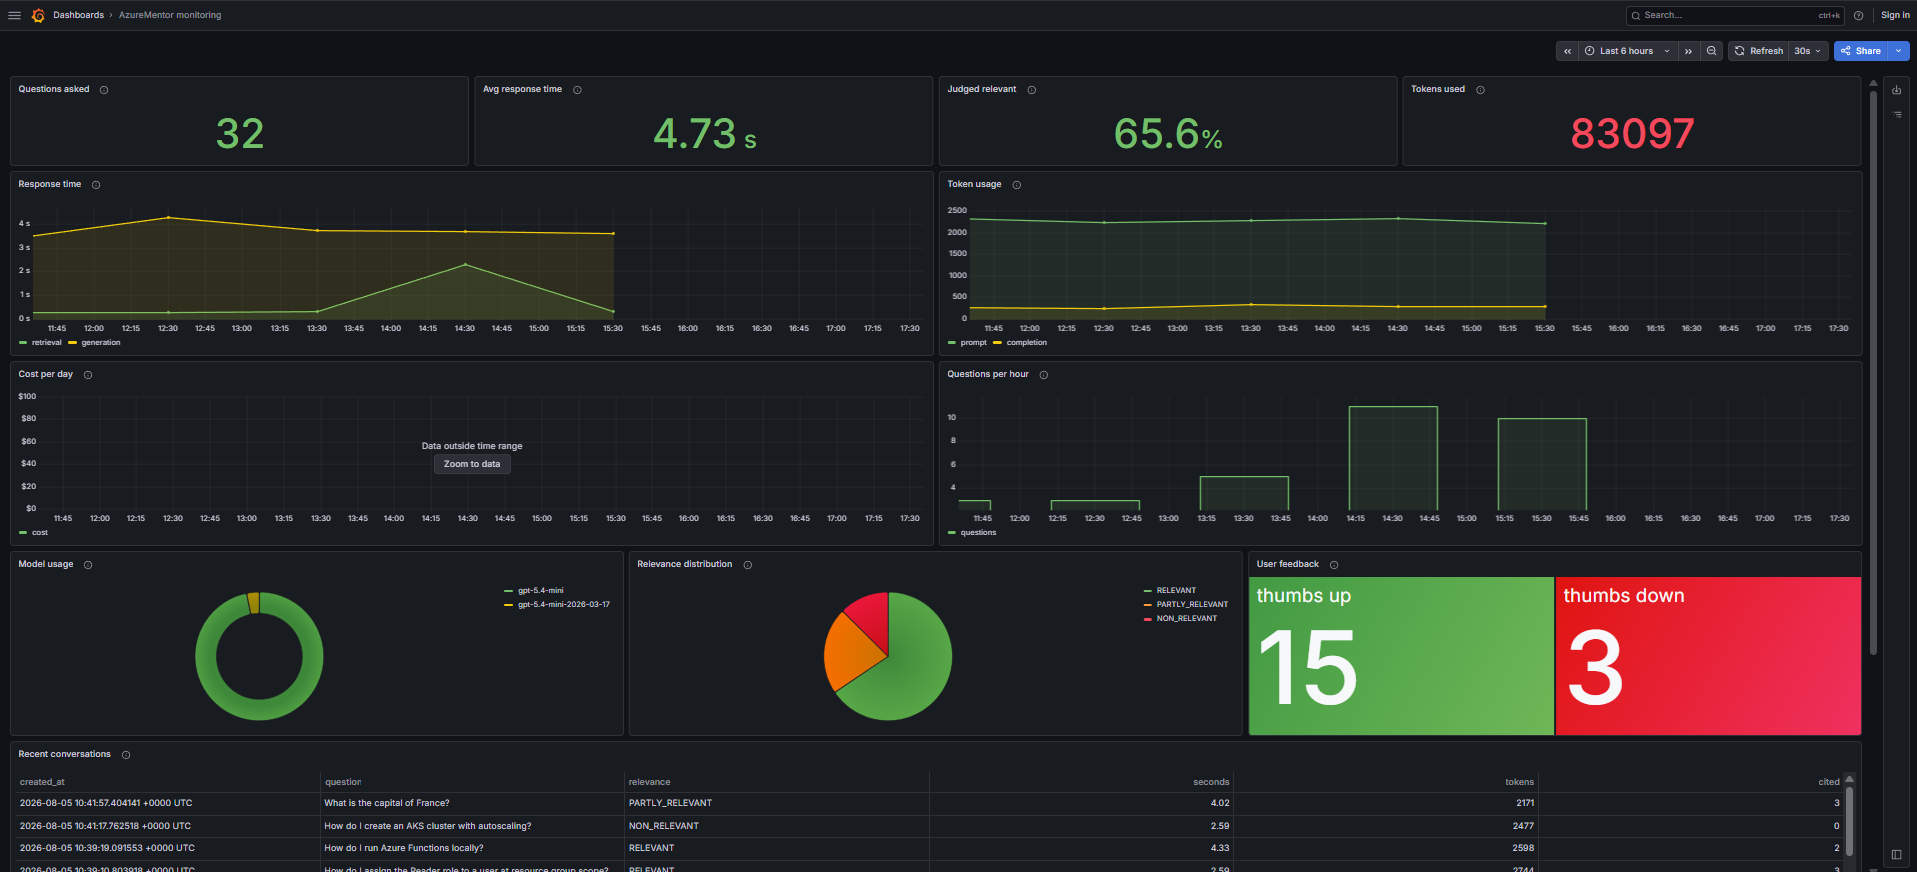
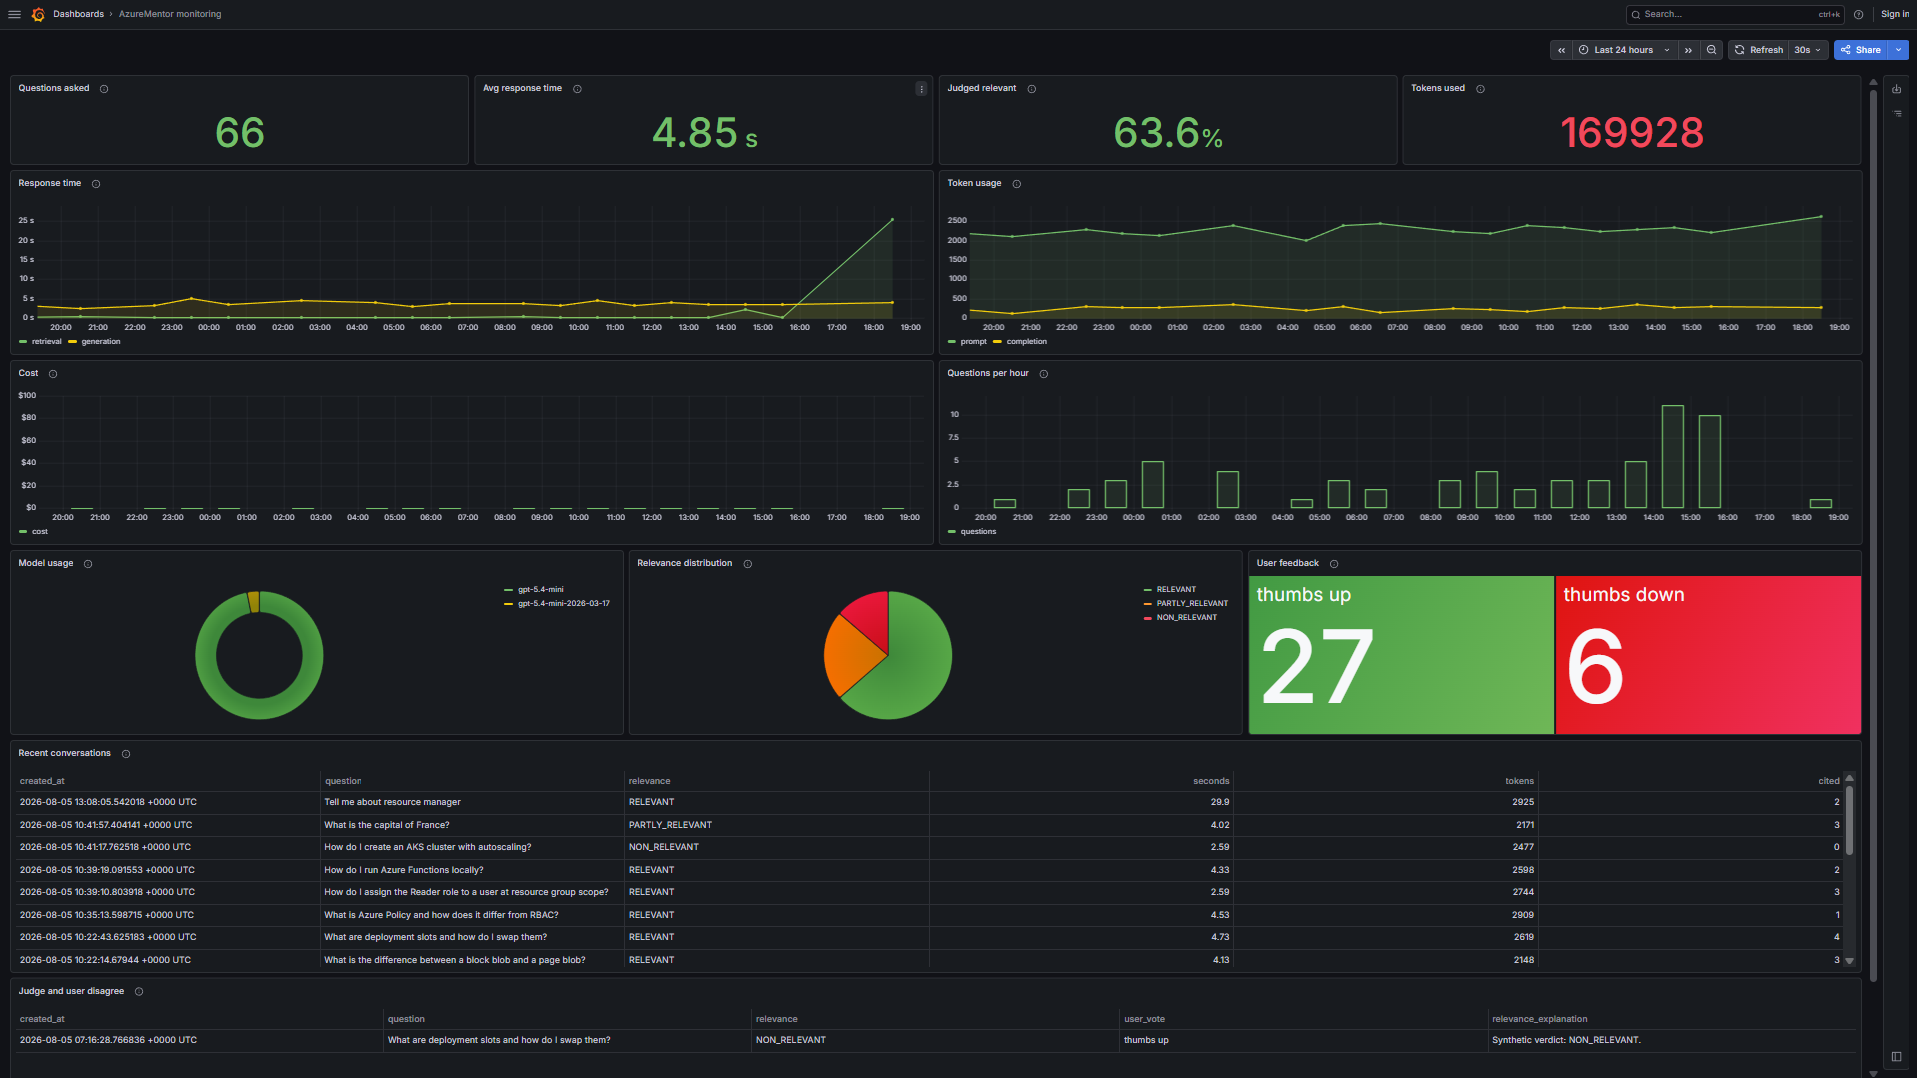
updated the screenshot and readme found a but there, and fixed the data display for that

diff --git a/grafana/make_dashboard.py b/grafana/make_dashboard.py
@@ -1,0 +1,236 @@
+"""Generate the provisioned Grafana dashboard JSON."""
+
+import json
+import pathlib
+
+DS = {"type": "frser-sqlite-datasource", "uid": "azurementor-sqlite"}
+TF = "created_at_unix BETWEEN $__from/1000 AND $__to/1000"
+
+
+def target(sql, qtype="table", timecols=None):
+    return {
+        "refId": "A",
+        "datasource": DS,
+        "queryText": sql,
+        "rawQueryText": sql,
+        "queryType": qtype,
+        "timeColumns": timecols or [],
+    }
+
+
+def panel(pid, title, ptype, x, y, w, h, sql, qtype="table", timecols=None,
+          unit=None, options=None, desc=None, overrides=None):
+    p = {
+        "id": pid,
+        "title": title,
+        "type": ptype,
+        "datasource": DS,
+        "gridPos": {"x": x, "y": y, "w": w, "h": h},
+        "targets": [target(sql, qtype, timecols)],
+        "fieldConfig": {"defaults": {}, "overrides": overrides or []},
+        "options": options or {},
+    }
+    if unit:
+        p["fieldConfig"]["defaults"]["unit"] = unit
+    if desc:
+        p["description"] = desc
+    return p
+
+
+TS_OPTS = {
+    "legend": {"displayMode": "list", "placement": "bottom", "showLegend": True},
+    "tooltip": {"mode": "multi", "sort": "none"},
+}
+
+
+def ts_panel(pid, title, x, y, w, h, sql, unit=None, desc=None, style="line"):
+    p = panel(pid, title, "timeseries", x, y, w, h, sql, "time series", ["time"],
+              unit=unit, options=dict(TS_OPTS), desc=desc)
+    p["fieldConfig"]["defaults"]["custom"] = {
+        "drawStyle": style, "lineWidth": 2, "fillOpacity": 10,
+        "showPoints": "auto", "spanNulls": True,
+    }
+    return p
+
+
+def stat_panel(pid, title, x, y, w, h, sql, unit=None, desc=None,
+               color="value", overrides=None):
+    return panel(
+        pid, title, "stat", x, y, w, h, sql, "table", None,
+        unit=unit, desc=desc, overrides=overrides,
+        options={
+            "reduceOptions": {"calcs": ["lastNotNull"], "fields": "", "values": False},
+            "textMode": "auto", "colorMode": color,
+            "graphMode": "none", "justifyMode": "auto",
+        },
+    )
+
+
+panels = []
+
+# Row 1 - headline stats
+panels.append(stat_panel(
+    1, "Questions asked", 0, 0, 6, 4,
+    "SELECT COUNT(*) AS questions FROM conversations WHERE " + TF,
+    desc="Total questions answered in the selected time range."))
+
+panels.append(stat_panel(
+    2, "Avg response time", 6, 0, 6, 4,
+    "SELECT ROUND(AVG(total_seconds), 2) AS seconds FROM conversations WHERE " + TF,
+    unit="s", desc="Retrieval plus generation, averaged."))
+
+panels.append(stat_panel(
+    3, "Judged relevant", 12, 0, 6, 4,
+    "SELECT ROUND(100.0 * SUM(CASE WHEN relevance = 'RELEVANT' THEN 1 ELSE 0 END) "
+    "/ COUNT(*), 1) AS percent FROM conversations "
+    "WHERE relevance IS NOT NULL AND " + TF,
+    unit="percent", desc="Share of answers the LLM judge rated RELEVANT."))
+
+panels.append(stat_panel(
+    4, "Tokens used", 18, 0, 6, 4,
+    "SELECT SUM(total_tokens) AS tokens FROM conversations WHERE " + TF,
+    desc="Prompt plus completion tokens."))
+
+# Row 2 - lesson panels 1 and 2
+panels.append(ts_panel(
+    5, "Response time", 0, 4, 12, 8,
+    "SELECT $__unixEpochGroupSeconds(created_at_unix, 3600) AS time,\n"
+    "       ROUND(AVG(retrieval_seconds), 3)  AS retrieval,\n"
+    "       ROUND(AVG(generation_seconds), 3) AS generation\n"
+    "FROM conversations\nWHERE " + TF + "\nGROUP BY 1\nORDER BY 1",
+    unit="s",
+    desc="Split by stage, so a slowdown can be attributed to search or to the LLM."))
+
+panels.append(ts_panel(
+    6, "Token usage", 12, 4, 12, 8,
+    "SELECT $__unixEpochGroupSeconds(created_at_unix, 3600) AS time,\n"
+    "       ROUND(AVG(prompt_tokens))     AS prompt,\n"
+    "       ROUND(AVG(completion_tokens)) AS completion\n"
+    "FROM conversations\nWHERE " + TF + "\nGROUP BY 1\nORDER BY 1",
+    desc="Average tokens per question. Prompt tokens dominate and are driven by "
+         "LLM_CONTEXT_CHUNKS."))
+
+# Row 3 - lesson panel 3, plus volume
+# Hourly, not daily. A daily bucket is stamped at midnight UTC, which falls
+# outside any short dashboard range, so the panel reads "Data outside time range"
+# on load even though the rows are there.
+panels.append(ts_panel(
+    7, "Cost", 0, 12, 12, 8,
+    "SELECT $__unixEpochGroupSeconds(created_at_unix, 3600) AS time,\n"
+    "       ROUND(SUM(COALESCE(cost_usd, 0)), 6) AS cost\n"
+    "FROM conversations\nWHERE " + TF + "\nGROUP BY 1\nORDER BY 1",
+    unit="currencyUSD", style="bars",
+    desc="Zero while the model's price is unknown. Set LLM_PRICE_INPUT_PER_1M and "
+         "LLM_PRICE_OUTPUT_PER_1M in .env to populate this."))
+
+panels.append(ts_panel(
+    8, "Questions per hour", 12, 12, 12, 8,
+    "SELECT $__unixEpochGroupSeconds(created_at_unix, 3600) AS time,\n"
+    "       COUNT(*) AS questions\n"
+    "FROM conversations\nWHERE " + TF + "\nGROUP BY 1\nORDER BY 1",
+    style="bars", desc="Traffic volume over time."))
+
+# Row 4 - lesson panels 4, 5, 6
+p = panel(
+    9, "Model usage", "piechart", 0, 20, 8, 8,
+    "SELECT model, COUNT(*) AS count\nFROM conversations\nWHERE " + TF +
+    "\nGROUP BY model",
+    options={
+        "legend": {"displayMode": "list", "placement": "right", "showLegend": True},
+        "pieType": "donut",
+        "reduceOptions": {"calcs": ["lastNotNull"], "fields": "", "values": True},
+    },
+    desc="Which answering model served the traffic.")
+panels.append(p)
+
+p = panel(
+    10, "Relevance distribution", "piechart", 8, 20, 8, 8,
+    "SELECT COALESCE(relevance, 'UNJUDGED') AS relevance, COUNT(*) AS count\n"
+    "FROM conversations\nWHERE " + TF + "\nGROUP BY 1",
+    options={
+        "legend": {"displayMode": "list", "placement": "right", "showLegend": True},
+        "pieType": "pie",
+        "reduceOptions": {"calcs": ["lastNotNull"], "fields": "", "values": True},
+    },
+    desc="The LLM judge's verdict on every answer served.",
+    overrides=[
+        {"matcher": {"id": "byName", "options": "RELEVANT"},
+         "properties": [{"id": "color",
+                         "value": {"mode": "fixed", "fixedColor": "green"}}]},
+        {"matcher": {"id": "byName", "options": "PARTLY_RELEVANT"},
+         "properties": [{"id": "color",
+                         "value": {"mode": "fixed", "fixedColor": "orange"}}]},
+        {"matcher": {"id": "byName", "options": "NON_RELEVANT"},
+         "properties": [{"id": "color",
+                         "value": {"mode": "fixed", "fixedColor": "red"}}]},
+    ])
+panels.append(p)
+
+panels.append(stat_panel(
+    11, "User feedback", 16, 20, 8, 8,
+    'SELECT SUM(CASE WHEN value =  1 THEN 1 ELSE 0 END) AS "thumbs up",\n'
+    '       SUM(CASE WHEN value = -1 THEN 1 ELSE 0 END) AS "thumbs down"\n'
+    "FROM feedback\nWHERE " + TF,
+    color="background",
+    desc="Thumbs collected in the app.",
+    overrides=[
+        {"matcher": {"id": "byName", "options": "thumbs up"},
+         "properties": [{"id": "color",
+                         "value": {"mode": "fixed", "fixedColor": "green"}}]},
+        {"matcher": {"id": "byName", "options": "thumbs down"},
+         "properties": [{"id": "color",
+                         "value": {"mode": "fixed", "fixedColor": "red"}}]},
+    ]))
+
+# Row 5 - lesson panel 7
+p = panel(
+    12, "Recent conversations", "table", 0, 28, 24, 10,
+    "SELECT created_at, question, COALESCE(relevance, 'UNJUDGED') AS relevance,\n"
+    "       ROUND(total_seconds, 2) AS seconds, total_tokens AS tokens,\n"
+    "       num_sources_cited AS cited\n"
+    "FROM conversations\nWHERE " + TF +
+    "\nORDER BY created_at_unix DESC\nLIMIT 20",
+    options={"showHeader": True, "cellHeight": "sm",
+             "footer": {"show": False, "reducer": ["sum"], "countRows": False,
+                        "fields": ""}},
+    desc="Newest first.")
+panels.append(p)
+
+# Row 6 - beyond the lesson: where the judge and the user disagree
+p = panel(
+    13, "Judge and user disagree", "table", 0, 38, 24, 8,
+    "SELECT c.created_at, c.question, c.relevance,\n"
+    "       CASE WHEN f.value = 1 THEN 'thumbs up' ELSE 'thumbs down' END AS user_vote,\n"
+    "       c.relevance_explanation\n"
+    "FROM conversations c\n"
+    "JOIN feedback f ON f.conversation_id = c.id\n"
+    "WHERE ((f.value = -1 AND c.relevance = 'RELEVANT')\n"
+    "    OR (f.value =  1 AND c.relevance = 'NON_RELEVANT'))\n"
+    "  AND c." + TF + "\nORDER BY c.created_at_unix DESC",
+    options={"showHeader": True, "cellHeight": "sm"},
+    desc="Answers the judge liked but users did not, and the reverse. This is "
+         "where prompt problems surface.")
+panels.append(p)
+
+dashboard = {
+    "uid": "azurementor-monitoring",
+    "title": "AzureMentor monitoring",
+    "description": "Live traffic, quality and cost for the AzureMentor RAG app.",
+    "tags": ["azurementor", "llm", "rag"],
+    "timezone": "browser",
+    "schemaVersion": 39,
+    "version": 1,
+    "editable": True,
+    "refresh": "30s",
+    # 24h rather than 6h: a low-volume app has long quiet stretches, and a
+    # dashboard that opens on an empty window looks broken.
+    "time": {"from": "now-24h", "to": "now"},
+    "panels": panels,
+}
+
+out = pathlib.Path("grafana/provisioning/dashboards/azurementor.json")
+out.parent.mkdir(parents=True, exist_ok=True)
+out.write_text(json.dumps(dashboard, indent=2), encoding="utf-8")
+
+json.loads(out.read_text(encoding="utf-8"))
+print(f"wrote {out} - {len(panels)} panels, valid JSON")

diff --git a/README.md b/README.md
@@ -41,10 +41,18 @@ exactly the failure this project exists to prevent.
 
 ## What it looks like
 
-> **Screenshots to add:** save them as `assets/screenshot-chat.png` (a question
-> with citations and the sources panel expanded) and `assets/screenshot-grafana.png`
-> (the dashboard), then reference them here. Both are recommended by the project
-> guidelines. Note `docs/` is gitignored, so put them in `assets/`.
+![The AzureMentor chat interface](assets/screenshot-chat.png)
+
+The sidebar carries the answer-style selector (the prompt templates the
+evaluation compares), Word and PDF export, and a live readout of which model and
+index are serving you. The banner states plainly that the conversation is not
+saved — a promise the app keeps, since history lives only in session state.
+
+Answers cite their sources inline as `[1]`, `[2]`, and only the sources actually
+cited are listed underneath.
+
+<details>
+<summary>The same thing from the command line</summary>
 
 ```
 You > How do I stop a blob container from being publicly readable?
@@ -70,6 +78,8 @@ Sources cited (2 of 5 retrieved)
 
 retrieval 1.7s  generation 4.3s  |  2282 in + 324 out tokens
 ```
+
+</details>
 
 ---
 
@@ -343,10 +353,17 @@ docker compose up -d grafana
 
 <http://localhost:3000> — anonymous read-only, `admin`/`admin` to edit.
 
-A dashboard with **13 panels** is provisioned automatically — response time,
-token usage, cost, model usage, relevance distribution, user feedback, recent
-conversations, and where the judge and users disagree. Open
+A dashboard with **13 panels** is provisioned automatically. Open
 <http://localhost:3000/d/azurementor-monitoring>.
+
+![The Grafana monitoring dashboard](assets/screenshot-grafana.png)
+
+Response time split by stage, token usage, cost, questions per hour, model usage,
+the judge's relevance breakdown, user thumbs, and a recent-conversations table.
+The screenshot is real traffic: note the judge marking *"How do I create an AKS
+cluster with autoscaling?"* as `NON_RELEVANT` with **0** sources cited — AKS is
+one of the services Microsoft moved out of this repository, so the system
+correctly declines rather than inventing an answer.
 
 **[grafana/DASHBOARD.md](grafana/DASHBOARD.md)** explains every panel and how the
 course lesson's PostgreSQL translates to SQLite.
